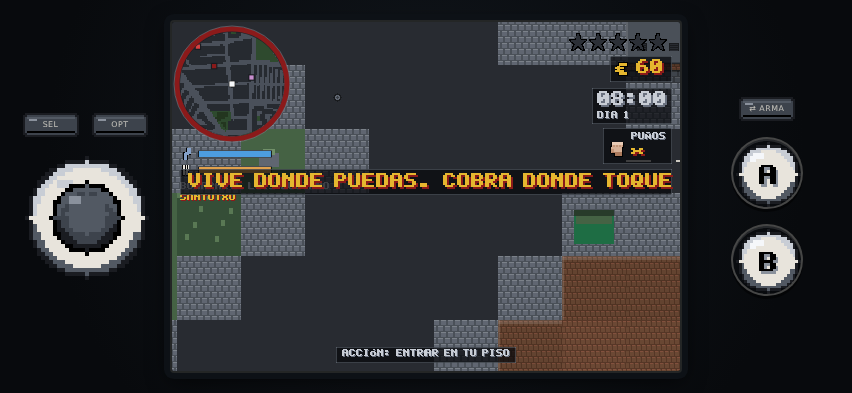
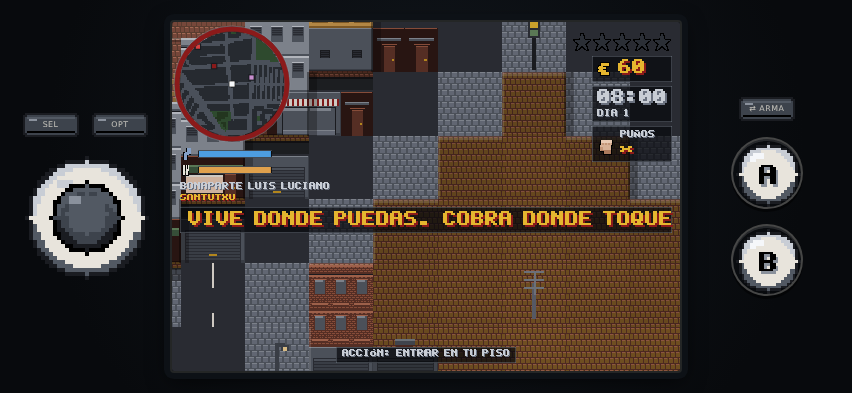
fix(bilbo-city): el HUD, a rejilla y a escala entera
Tres cosas que se veían en cuanto se miraba el mando entero.

**El HUD no escalaba con nada.** Iba en píxeles absolutos, así que en un móvil de
1080 salía de la mitad de tamaño que en uno de 540 y el texto no se leía — el
mundo escala con el zoom y el HUD no escalaba. Ahora se dibuja siempre a 400 px
de alto en un buffer y se sube al lienzo con un **entero**, que mantiene el píxel
cuadrado como en el resto del juego. Las medidas del HUD quedan de una vez.

**La columna derecha eran tres anchos apilados.** Cada caja se medía a sí misma,
así que dinero, reloj y arma dibujaban tres escalones en el borde de la pantalla.
Ahora comparten ancho —el de la más ancha— y canto, con paso constante entre
ellas. Las estrellas y el ojo se alinean al mismo canto.

**El rótulo grande caía encima del barrio.** Iba a una fracción de la altura
(`H*.42`) mientras la columna izquierda va en píxeles fijos, así que en una
pantalla baja aterrizaba justo sobre las barras y el nombre de la calle. Ahora se
queda por debajo de donde acabe esa columna. La caja y el texto se colocaban por
separado y con este arreglo se habrían descuadrado: van con la misma variable.

`./verificar.sh` en verde.

Claude-Session: https://claude.ai/code/session_01NtercYBRM3YRCpqKNoAo7d

diff --git a/bilbo-city/referencia/bilbo-city.html b/bilbo-city/referencia/bilbo-city.html
@@ -1978,7 +1978,8 @@ const TRAMA_BARRIO=
[2 lines of base64/hex data omitted]
 /*PLANO>>>*/
-const cv=document.getElementById('c'), ctx=cv.getContext('2d');
+const cv=document.getElementById('c');
+let ctx=cv.getContext('2d');
 let W=0,H=0,DPR=1;
 /* DPR entero a propósito: con 1,5 o 1,75 un píxel de textura cae a caballo de dos de
    pantalla y el pixel art se ve sucio. Mejor perder algo de resolución que el filo. */
@@ -4090,7 +4091,7 @@ function musica(dt){
   b.connect(bg);bg.connect(AU.gMus);b.start(t);b.stop(t+.22);}}
 
 /*═══════════════ AVISOS Y DIÁLOGO ═══════════════*/
-let aviso1='',avisoT=0,grande1='',grandeT=0,pista1='',flashT=0;
+let aviso1='',avisoT=0,grande1='',grandeT=0,pista1='',flashT=0,hudBaseIzq=0;
 function aviso(t,s=2.4){aviso1=t;avisoT=s;}
 function grande(t,s=2.2){grande1=t;grandeT=s;}
 const fundEl=document.getElementById('fund'),flashEl=document.getElementById('flash');
@@ -6735,7 +6736,26 @@ function cajaHUD(x,y,w,h){
  ctx.fillStyle='rgba(7,9,12,.72)';ctx.fillRect(x,y,w,h);
  ctx.fillStyle='rgba(141,153,164,.35)';ctx.fillRect(x,y,w,1);ctx.fillRect(x,y+h-1,w,1);
  ctx.fillRect(x,y,1,h);ctx.fillRect(x+w-1,y,1,h);}
+/* El HUD se dibuja SIEMPRE a una resolución de 400 px de alto y se sube al lienzo con un
+   entero. Iba en píxeles absolutos, así que en un móvil de 1080 se quedaba de la mitad de
+   tamaño que en uno de 540 y el texto no se leía: el mundo escala con el zoom y el HUD no
+   escalaba con nada. Con el buffer, las medidas de aquí abajo son de una vez y para
+   siempre, y el escalado entero mantiene el píxel cuadrado como en el resto del juego. */
+let hudCv=null,hudG=null;
+const HUD_H=400;
 function dibHUD(){
+ const U=Math.max(1,Math.floor(H/HUD_H));
+ const bw=Math.ceil(W/U), bh=Math.ceil(H/U);
+ if(!hudCv||hudCv.width!==bw||hudCv.height!==bh){
+  hudCv=lienzo(bw,bh);hudG=hudCv.getContext('2d');}
+ hudG.clearRect(0,0,bw,bh);
+ const real=ctx, RW=W, RH=H;
+ ctx=hudG; W=bw; H=bh;
+ try{ hudCuerpo(); }finally{ ctx=real; W=RW; H=RH; }
+ real.imageSmoothingEnabled=false;
+ real.drawImage(hudCv,0,0,bw,bh,0,0,bw*U,bh*U);
+}
+function hudCuerpo(){
  /* El HUD ocupa la pantalla entera otra vez: los mandos viven en el marco, fuera del
     lienzo, así que ya no hay nada que esquivar. */
  const marg=8;
@@ -6774,19 +6794,29 @@ function dibHUD(){
  ctx.restore();
  /* ── estrellas ── */
  const exd=zd;
- for(let i=0;i<5;i++)ctx.drawImage(i<S.estrellas?ICO.estrella:ICO.estrellaOff,exd-24-i*20,marg+2,20,20);
- /* ── dinero ── */
+ for(let i=0;i<5;i++)ctx.drawImage(i<S.estrellas?ICO.estrella:ICO.estrellaOff,exd-20-i*20,marg+2,20,20);
+ /* La columna de la derecha va a un solo ancho y a un solo canto. Cada caja se medía a
+    sí misma, así que dinero, reloj y arma salían de tres anchos distintos apilados: tres
+    escalones en el borde de la pantalla. El ancho es el de la caja más ancha, y el paso
+    entre cajas, constante. */
  const din=String(Math.round(S.dinero));
- const wd=anchoTexto(din,2)+34;
- cajaHUD(exd-wd,marg+26,wd,26);
- ctx.drawImage(ICO.euro,exd-wd+3,marg+29,20,20);
- texto(ctx,din,exd-wd+26,marg+29,2,'ambar');
- /* ── reloj y día ── */
  const hr=String((S.min/60)|0).padStart(2,'0')+':'+String(S.min%60).padStart(2,'0');
- const wh=Math.max(anchoTexto(hr,2),anchoTexto('DIA '+S.dia,1))+10;
- cajaHUD(exd-wh,marg+58,wh,36);
- texto(ctx,hr,exd-wh+5,marg+61,2,'hueso');
- texto(ctx,'DIA '+S.dia,exd-wh+5,marg+81,1,'hueso');
+ const aq=arma(S.armaAct), munq=aq.inf?'∞':String(S.armas[aq.id]||0);
+ const wCol=Math.max(anchoTexto(din,2)+34,
+                     anchoTexto(hr,2)+10, anchoTexto('DIA '+S.dia,1)+10,
+                     anchoTexto(aq.n,1)+34, anchoTexto(munq,2)+34, 74);
+ const xCol=exd-wCol, GAP=4;
+ /* ── dinero ── */
+ const wd=wCol;
+ cajaHUD(xCol,marg+26,wd,26);
+ ctx.drawImage(ICO.euro,xCol+3,marg+29,20,20);
+ texto(ctx,din,xCol+26,marg+29,2,'ambar');
+ /* ── reloj y día ── */
+ const wh=wCol;
+ const yRel=marg+26+26+GAP;
+ cajaHUD(xCol,yRel,wh,36);
+ texto(ctx,hr,xCol+5,yRel+3,2,'hueso');
+ texto(ctx,'DIA '+S.dia,xCol+5,yRel+23,1,'hueso');
  /* ── energía y hambre bajo el radar ── */
  const by=cyr+R+14;
  const barra=(y,v,col,ico)=>{
@@ -6806,27 +6836,30 @@ function dibHUD(){
   const cl=calleEn(player.x|0,player.y|0);
   if(cl){texto(ctx,cl,zi,by+32,1,'hueso');texto(ctx,D.n,zi,by+44,1,'ambar');}
   else texto(ctx,D.n,zi,by+32,1,'hueso');}
+ /* Dónde acaba la columna izquierda. El rótulo grande iba a una fracción de la altura
+    (H*.42) y la columna va en píxeles fijos, así que en una pantalla baja el aviso caía
+    justo encima del barrio y de las barras. */
+ hudBaseIzq=by+58;
  /* ── arma y munición ── */
- const a=arma(S.armaAct);
- const mun=a.inf?'∞':String(S.armas[a.id]||0);
- const wa=Math.max(anchoTexto(a.n,1),anchoTexto(mun,2))+34;
- const ay=marg+98;
- cajaHUD(zd-wa,ay,wa,36);
- ctx.drawImage(ICO[a.id]||ICO.punos,zd-wa+3,ay+8,22,22);
- texto(ctx,a.n,zd-wa+28,ay+4,1,'hueso');
- texto(ctx,mun,zd-wa+28,ay+16,2,'ambar');
+ const a=aq, mun=munq, wa=wCol;
+ const ay=yRel+36+GAP;
+ cajaHUD(xCol,ay,wa,36);
+ ctx.drawImage(ICO[a.id]||ICO.punos,xCol+3,ay+8,22,22);
+ texto(ctx,a.n,xCol+28,ay+4,1,'hueso');
+ texto(ctx,mun,xCol+28,ay+16,2,'ambar');
  /* ── el ojo ──
     Sin esto el sigilo se juega a ciegas: no hay forma de saber si el que está ahí
     enfrente te ha visto o está mirando al escaparate. El ojo se abre según lo que le
     falta a la sospecha para llenarse, y se pone en rojo cuando ya te tienen. Va debajo
     del arma, que es la esquina que queda libre. */
  if(S.escena==='ciudad'&&(S.sospecha>.02||S.visto)){
-  const an=64,oy=ay+40;
-  cajaHUD(zd-an,oy,an,26);
-  ctx.drawImage(S.visto?ICO.ojo:ICO.ojoTachado,zd-an+3,oy+3,20,20);
-  ctx.fillStyle=C.carbon;ctx.fillRect(zd-an+26,oy+9,32,8);
+  const an=wCol,oy=ay+36+GAP;
+  cajaHUD(xCol,oy,an,26);
+  ctx.drawImage(S.visto?ICO.ojo:ICO.ojoTachado,xCol+3,oy+3,20,20);
+  const wb=an-30;
+  ctx.fillStyle=C.carbon;ctx.fillRect(xCol+26,oy+9,wb,8);
   ctx.fillStyle=S.sospecha>=1?C.sangre:S.sospecha>.5?C.mostaza:C.acero;
-  ctx.fillRect(zd-an+26,oy+9,Math.round(32*clamp(S.sospecha,0,1)),8);}
+  ctx.fillRect(xCol+26,oy+9,Math.round(wb*clamp(S.sospecha,0,1)),8);}
  /* ── misión o curro ── */
  if(S.escena==='ciudad'&&(S.mision||S.job)){
   const o=objetivo(),dm=o?Math.round(dist(o,player)*8):0;
@@ -6853,8 +6886,9 @@ function dibHUD(){
  if(avisoT>0&&aviso1){
   let esc=2;while(esc>1&&anchoTexto(aviso1,esc)>zd-zi)esc--;
   const w=Math.min(zd-zi,anchoTexto(aviso1,esc)+16), al=clamp(avisoT,0,1);
-  ctx.globalAlpha=al;cajaHUD((W-w)/2,H*.42,w,9*esc+8);
-  texto(ctx,aviso1,(W-w)/2+8,H*.42+4,esc,'ambar');ctx.globalAlpha=1;}
+  const ya=Math.max(H*.42,hudBaseIzq);
+  ctx.globalAlpha=al;cajaHUD((W-w)/2,ya,w,9*esc+8);
+  texto(ctx,aviso1,(W-w)/2+8,ya+4,esc,'ambar');ctx.globalAlpha=1;}
  /* ── rótulo grande ── */
  if(grandeT>0&&grande1){let esc=W<620?3:4;
   while(esc>1&&anchoTexto(grande1,esc)>zd-zi)esc--;
